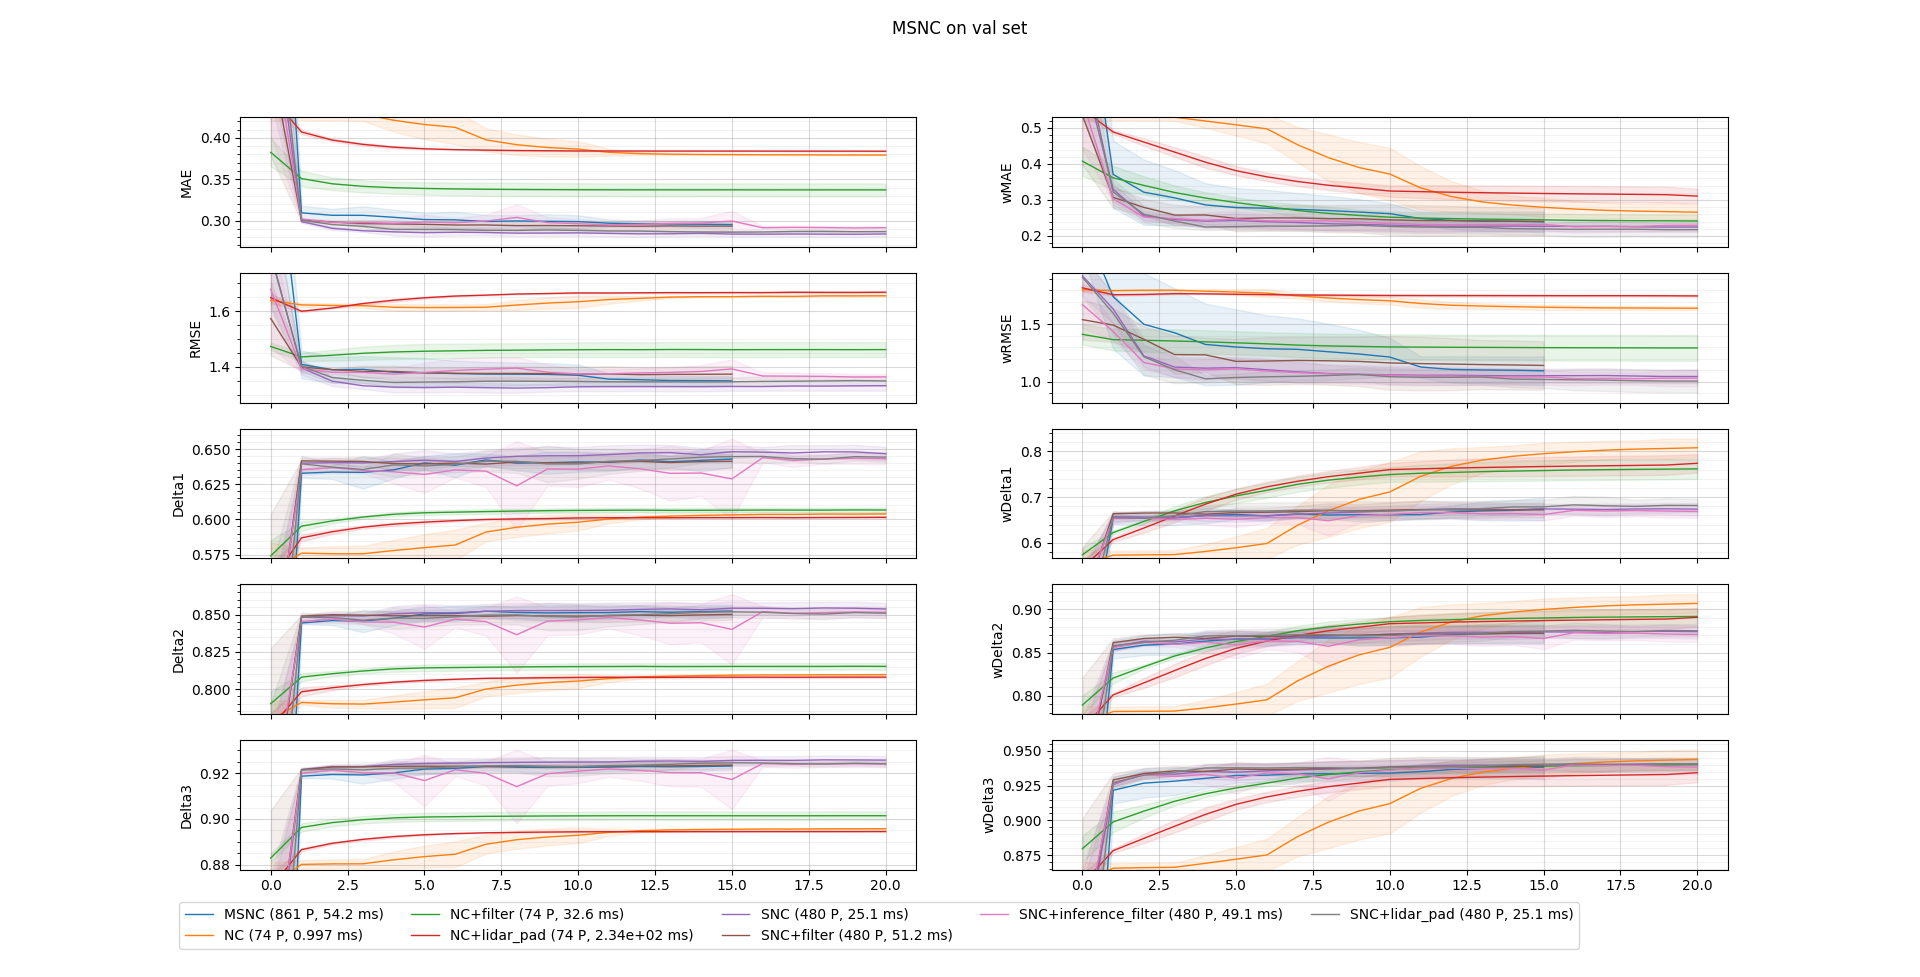
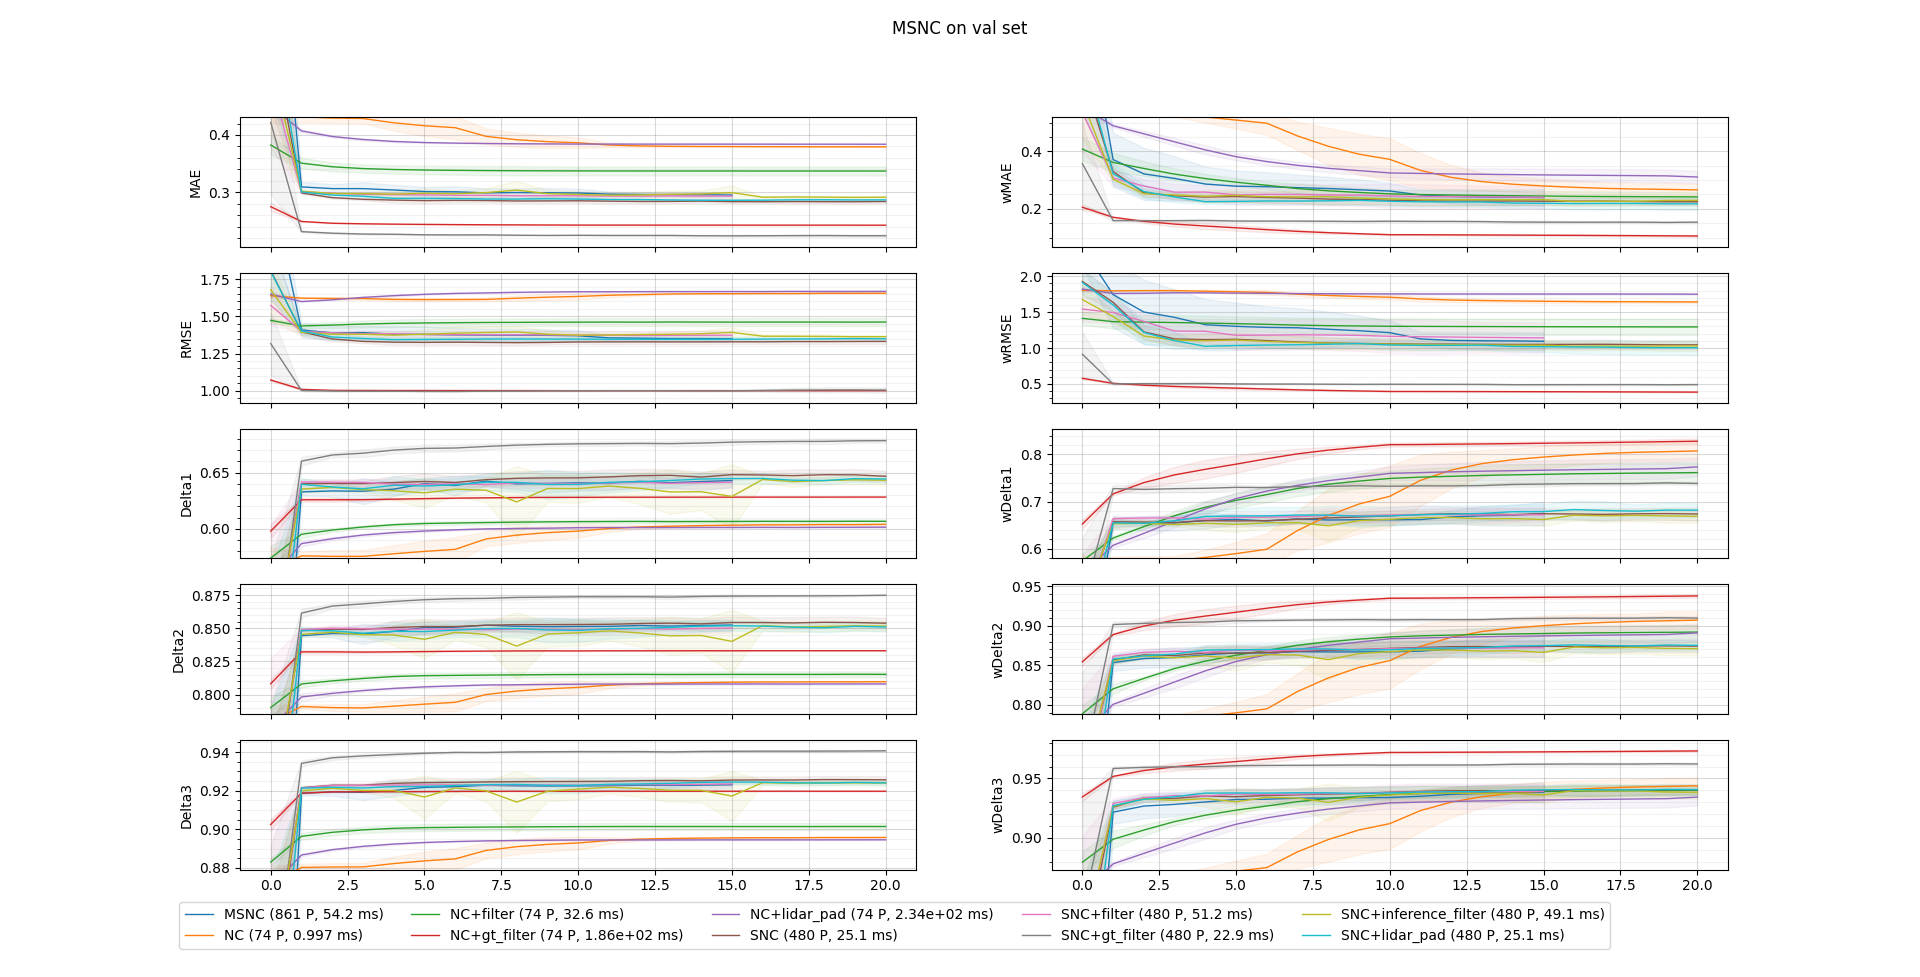
add gt_filter, rename SNC2 experiment to SNC+2nd_module

diff --git a/src/KittiDepthDataloader.py b/src/KittiDepthDataloader.py
@@ -18,12 +18,14 @@ def KittiDepthDataloader(params, sets, mode, device, lidar_padding):
     kitti_rgb_dir = params['paths']['kitti_rgb_dataset_dir']
     load_rgb = params['model']['rgb'] or mode == 'predictions'
     lidar_projection = params['model']['lidar_projection'] if 'lidar_projection' in params['model'] else False
+    gt_filter = params['model']['gt_filter'] if 'gt_filter' in params['model'] else False
+    assert not gt_filter or (not lidar_projection and not lidar_padding)
 
     dataloaders = {}
 
     if 'train' in sets:
         train_set = KittiDepthDataset(kitti_depth_path=os.path.join(kitti_depth_dir, 'train'), setname='train',
-                                      load_rgb=load_rgb, rgb_dir=kitti_rgb_dir, lidar_padding=lidar_padding, lidar_projection=lidar_projection, device=device)
+                                      load_rgb=load_rgb, rgb_dir=kitti_rgb_dir, lidar_padding=lidar_padding, lidar_projection=lidar_projection, gt_filter=gt_filter, device=device)
         train_set.sparse_depth_paths = train_set.sparse_depth_paths[0:params['training']['train_on']]
         train_set.gt_depth_paths = train_set.gt_depth_paths[0:params['training']['train_on']]
 
@@ -31,17 +33,17 @@ def KittiDepthDataloader(params, sets, mode, device, lidar_padding):
 
     if 'val' in sets:
         val_set = KittiDepthDataset(kitti_depth_path=os.path.join(kitti_depth_dir, 'val'), setname='val',
-                                    load_rgb=load_rgb, rgb_dir=kitti_rgb_dir, lidar_padding=lidar_padding, lidar_projection=lidar_projection, device=device)
+                                    load_rgb=load_rgb, rgb_dir=kitti_rgb_dir, lidar_padding=lidar_padding, lidar_projection=lidar_projection, gt_filter=gt_filter, device=device)
         dataloaders['val'] = DataLoader(val_set, shuffle = mode == 'predictions', batch_size=1 if mode == 'predictions' else params['training']['val_batch_size'], num_workers=0)
 
     if 'selval' in sets:
         test_set = KittiDepthDataset(kitti_depth_path=os.path.join(kitti_depth_dir, 'val_selection_cropped'), setname='selval',
-                                     load_rgb=load_rgb, rgb_dir=kitti_rgb_dir, lidar_padding=lidar_paddingg, lidar_projection=lidar_projection, device=device)
+                                     load_rgb=load_rgb, rgb_dir=kitti_rgb_dir, lidar_padding=lidar_paddingg, lidar_projection=lidar_projection, gt_filter=gt_filter, device=device)
         dataloaders['selval'] = DataLoader(test_set, shuffle=mode == 'predictions', batch_size=1 if mode == 'predictions' else params['training']['val_batch_size'], num_workers=0)
 
     if 'test' in sets:
         test_set = KittiDepthDataset(kitti_depth_path=os.path.join(kitti_depth_dir, 'test_depth_completion_anonymous'), setname='test',
-                                     load_rgb=load_rgb, rgb_dir=kitti_rgb_dir, device=device)
+                                     load_rgb=load_rgb, rgb_dir=kitti_rgb_dir, gt_filter=gt_filter, device=device)
         dataloaders['test'] = DataLoader(test_set, shuffle=False, batch_size=1 if mode == 'predictions' else params['training']['val_batch_size'], num_workers=0)
 
     dataset_sizes = {}

diff --git a/src/KittiDepthDataset.py b/src/KittiDepthDataset.py
@@ -17,7 +17,7 @@ from scipy.interpolate import interp1d
 
 class KittiDepthDataset(Dataset):
 
-    def __init__(self, kitti_depth_path, setname='train', load_rgb=False, rgb_dir=None, lidar_padding=None, lidar_projection=False, device=None):
+    def __init__(self, kitti_depth_path, setname='train', load_rgb=False, rgb_dir=None, lidar_padding=None, lidar_projection=False, gt_filter=False, device=None):
 
         self.kitti_depth_path = kitti_depth_path
         self.setname = setname
@@ -25,6 +25,7 @@ class KittiDepthDataset(Dataset):
         self.rgb_dir = rgb_dir
         self.lidar_padding = lidar_padding
         self.lidar_projection = lidar_projection
+        self.gt_filter = gt_filter
         self.device = device
 
         if setname == 'train' or setname == 'val':
@@ -91,6 +92,9 @@ class KittiDepthDataset(Dataset):
         # add channel dim & convert to Pytorch Tensors
         gt_depth = torch.tensor(gt_depth[None,...], dtype=torch.float, device=self.device)
         sparse_depth = torch.tensor(sparse_depth[None,...], dtype=torch.float, device=self.device)
+        if self.gt_filter:
+            sparse_depth[(sparse_depth-gt_depth).abs() >= 0.1] = 0
+        
 
         # Read RGB images
         if self.load_rgb:

diff --git a/README.md b/README.md
@@ -24,7 +24,7 @@ Color and reflectance information is seamlessly integrated into the model by app
 | NC+filter              | 0.0323 ± 0.0011 | 337 mm ± 8   | 1462 mm ± 27  | 60.67% ± 0.17  | 81.52% ± 0.22  | 90.14% ± 0.18  |           74 | 33 ms ± 1       |
 | SNC                    | 0.0252 ± 0.0004 | 284 mm ± 3   | 1332 mm ± 18  | 64.68% ± 0.48  | 85.38% ± 0.41  | 92.57% ± 0.18  |          480 | 26 ms ± 0       |
 | SNC+2nd_channel        | 0.0245 ± 0.0005 | 277 mm ± 4   | 1306 mm ± 13  | 65.87% ± 0.25  | 85.99% ± 0.10  | 92.77% ± 0.11  |          932 | 24 ms ± 0       |
-| SNC2                   | 0.0233 ± 0.0001 | 266 mm ± 2   | 1282 mm ± 6   | 66.31% ± 0.17  | 86.40% ± 0.09  | 93.18% ± 0.05  |    484 + 480 | 72 ms ± 1       |
+| SNC+2nd_module         | 0.0233 ± 0.0001 | 266 mm ± 2   | 1282 mm ± 6   | 66.31% ± 0.17  | 86.40% ± 0.09  | 93.18% ± 0.05  |    484 + 480 | 72 ms ± 1       |
 
 *Figure 0: Comparison with the baseline I modified. \
 All experiments in this readme use the same learning rate etc as the NConvCNN baseline.
@@ -170,7 +170,7 @@ The full implementation can be found [here](model/SNC_conv.py).
 
 ![Trajectories SNC](workspace/SNC/metrics_trajectories.png) \
 *Figure 3: Metric trajectories of SNC over training based on 4 runs each. 
-SNC2 incorporates a frozen and a trainable SNC model, resulting a parameter size of 964 if both were trained at the same time.
+SNC+2nd_module incorporates a frozen and a trainable SNC model, resulting a parameter size of 964 if both were trained at the same time.
 If you were wondering how P(SNC+2nd_channel) is < 2 P(SNC), it's because my spatial convolutions scale with kernel size and the number of input channels only, meaning the first layer has fewer parameters than you might expect.*
 
 Figure 3 shows SNC experiments.
@@ -219,7 +219,7 @@ where ' marks outputs of the first module.
 ![Streaming Perception](images/workspace_SNC_SNC_run0000_ep0020_streaming_perception_4149.png)\
 ![Streaming Perception](images/workspace_SNC_SNC2_run0000_ep0020_streaming_perception_4149.png)\
 *Figure 6: Streaming Perception \
-Latent space of every second layer of both SNC2 modules; the first of which is equal to SNC.
+Latent space of every second layer of SNC+2nd_module, which freezes SNC as its first module.
 The shown smoothness is the product over all edge directions while smoothness confidence is shown as a mean.*
 
 
@@ -227,7 +227,7 @@ The shown smoothness is the product over all edge directions while smoothness co
 In a similar settting SNC would perform better than its prediction speed suggests,
 because every layer of the model outputs updated predictions and confidences like in figure 6, despite only involving the depth ouput in a loss.
 SNC can be thought of as a recurrent ensemble choosing different expert over time for different resolutions.
-This is true for individual layers as well as groups of layers and the full model, which is used as a layer in SNC2.
+This is true for individual layers as well as groups of layers and the full model, which is used as a layer in SNC+2nd_module.
 In a realtime setting with task A downstream of SNC and task B dowstream of both,
 task A can rely on intermediate prediction while task B uses the final output.
 This is compounded by the fact that most vision tasks use downscaled images while SNC does not.
@@ -242,7 +242,7 @@ In a real time setting, data of the previous time step could be used as an addit
 ![Smoothness Gating](images/occlusion_SNC.jpg)
 ![Smoothness Gating](images/occlusion_SNC2.png) \
 *Figure 3: Predictions with input errors.\
-From left to right: Sparse input, NC, NC with gated pooling, SNC, SNC2. Colormaps are based on depth statistics of each whole image.*
+From left to right: Sparse input, NC, NC with gated pooling, SNC, SNC+2nd_module. Colormaps are based on depth statistics of each whole image.*
 
 ![Filtered input](images/occlusion_sparse_filtered.png)
 ![NC Filtered](images/occlusion_NC_filtered.png)
@@ -256,7 +256,7 @@ Some points are detected by the moving lidar sensor which would be occluded in t
 In the same area, the large reflective and/or transparent surface of a car on the left leads to missing non-occluded lidar points.
 Consequences of these errors are especially apparent in NC predictions.
 This is partially mitigated without additional parameters by gating the pooling operation with inverse depth to favour closer points ("NC+pool_disp" in figure 1).
-SNC and SNC2 are expressive enough to filter dense occluded points correctly despite not being designed to do so.
+SNC and SNC+2nd_module are expressive enough to filter dense occluded points correctly despite not being designed to do so.
 Neither is able to distinguish real holes in the image from fake ones.
 
 ![Lidar Grid](images/workspace_4149_lidar_grid.png)\
@@ -278,11 +278,14 @@ Figure 6 shows results of several experiments enabled by this new pipeline:
 1) Occlusion Filter\
  Because I know which points are adjacent in the dense lidar grid, I can model occlusion in camera perspective explicitly and filter occluded points.
  My implementation is based on the idea that inside the area spanned by four projected, formerly adjacend points, no depth larger than the maximum of these four points is allowed.
-  While NC improves with this filter in figure 6, SNC does not.
-  I assume this is either because on average, SNC's learned filtering is better than my own or because some occluded points are useful.
-  The first option is supported by SNC2 in figure 3, which feeds smoothness and outlier filtering of a frozen SNC into a second SNC and better matches the cyclist's outline where my own approximation misses some points in figure 4.
+  While NC improves with this filter in figure 6, SNC does not; likely because its own filtering is better than my own. 
+  This is supported by SNC+2nd_module in figure 3, which feeds smoothness and outlier filtering of a frozen SNC into a second SNC and better matches the cyclist's outline where my own approximation misses some points in figure 4.
   At the same time, it still predicts holes.
   A different filtering approach could be both faster and more accurate.
+  KITTI generates ground truth values by accumulating 20 lidar scans and comparing their results to stereo depth estimates[6], meaning non-occluded inputs should still be present.
+  For NC+gt_filter and SNC+filter, i simulate an ideal filter by removing all depth values which differ from gt depths by more than a threshold.
+  These models accomplish the best metrics in this repo, suggesting occlusion has a bigger influence than precise object borders in the KITTI depth datset.
+  One possible explenation for this is mentioned by the authors: Depth bleeding artifacts at object borders of their stereo based filter[6] result in differences to the lidar measurements, which are subsequently filtered out.
 2) Lidar Padding\
   When projecting lidar points onto a plane it is possible to use points outside the camera field of view.
   This way any compatible model is able to use real data where it would have used padding, enabling true spatial invariance in CNNs.
